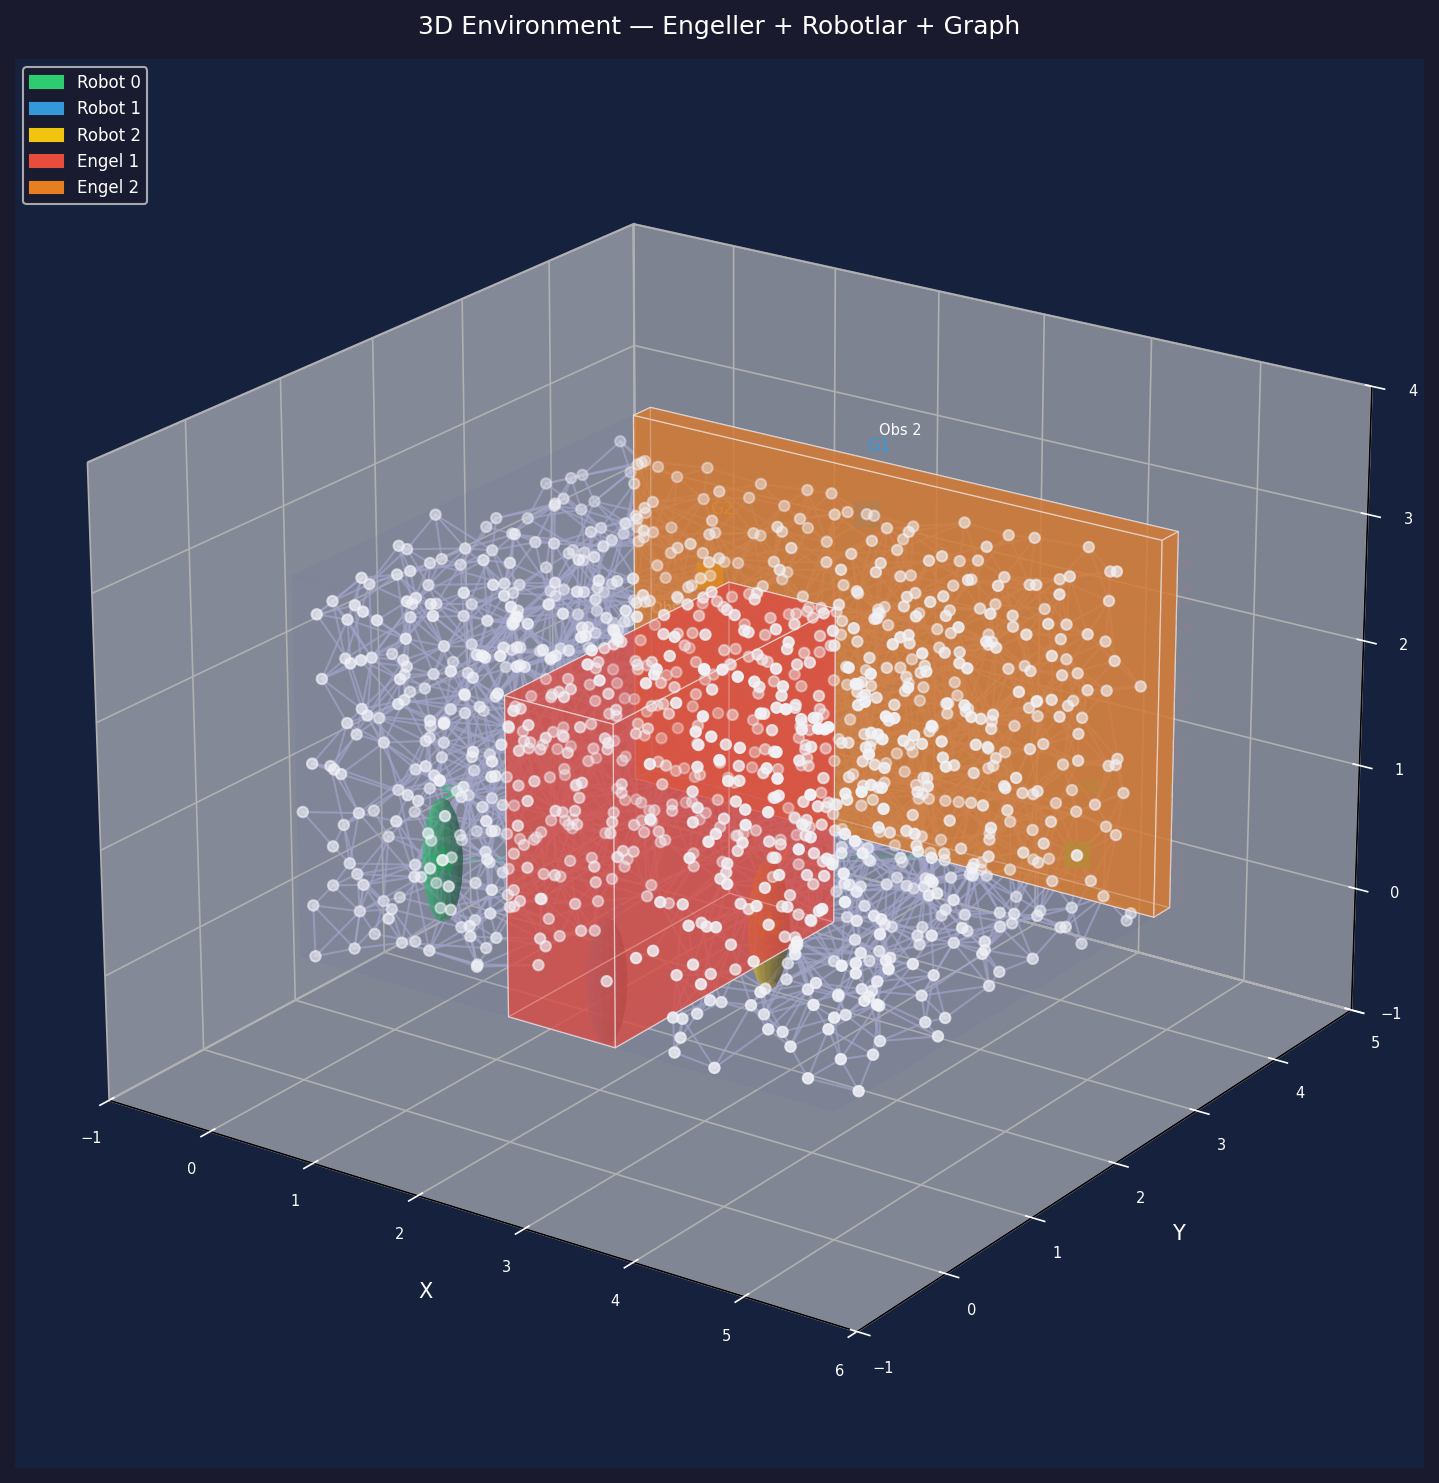
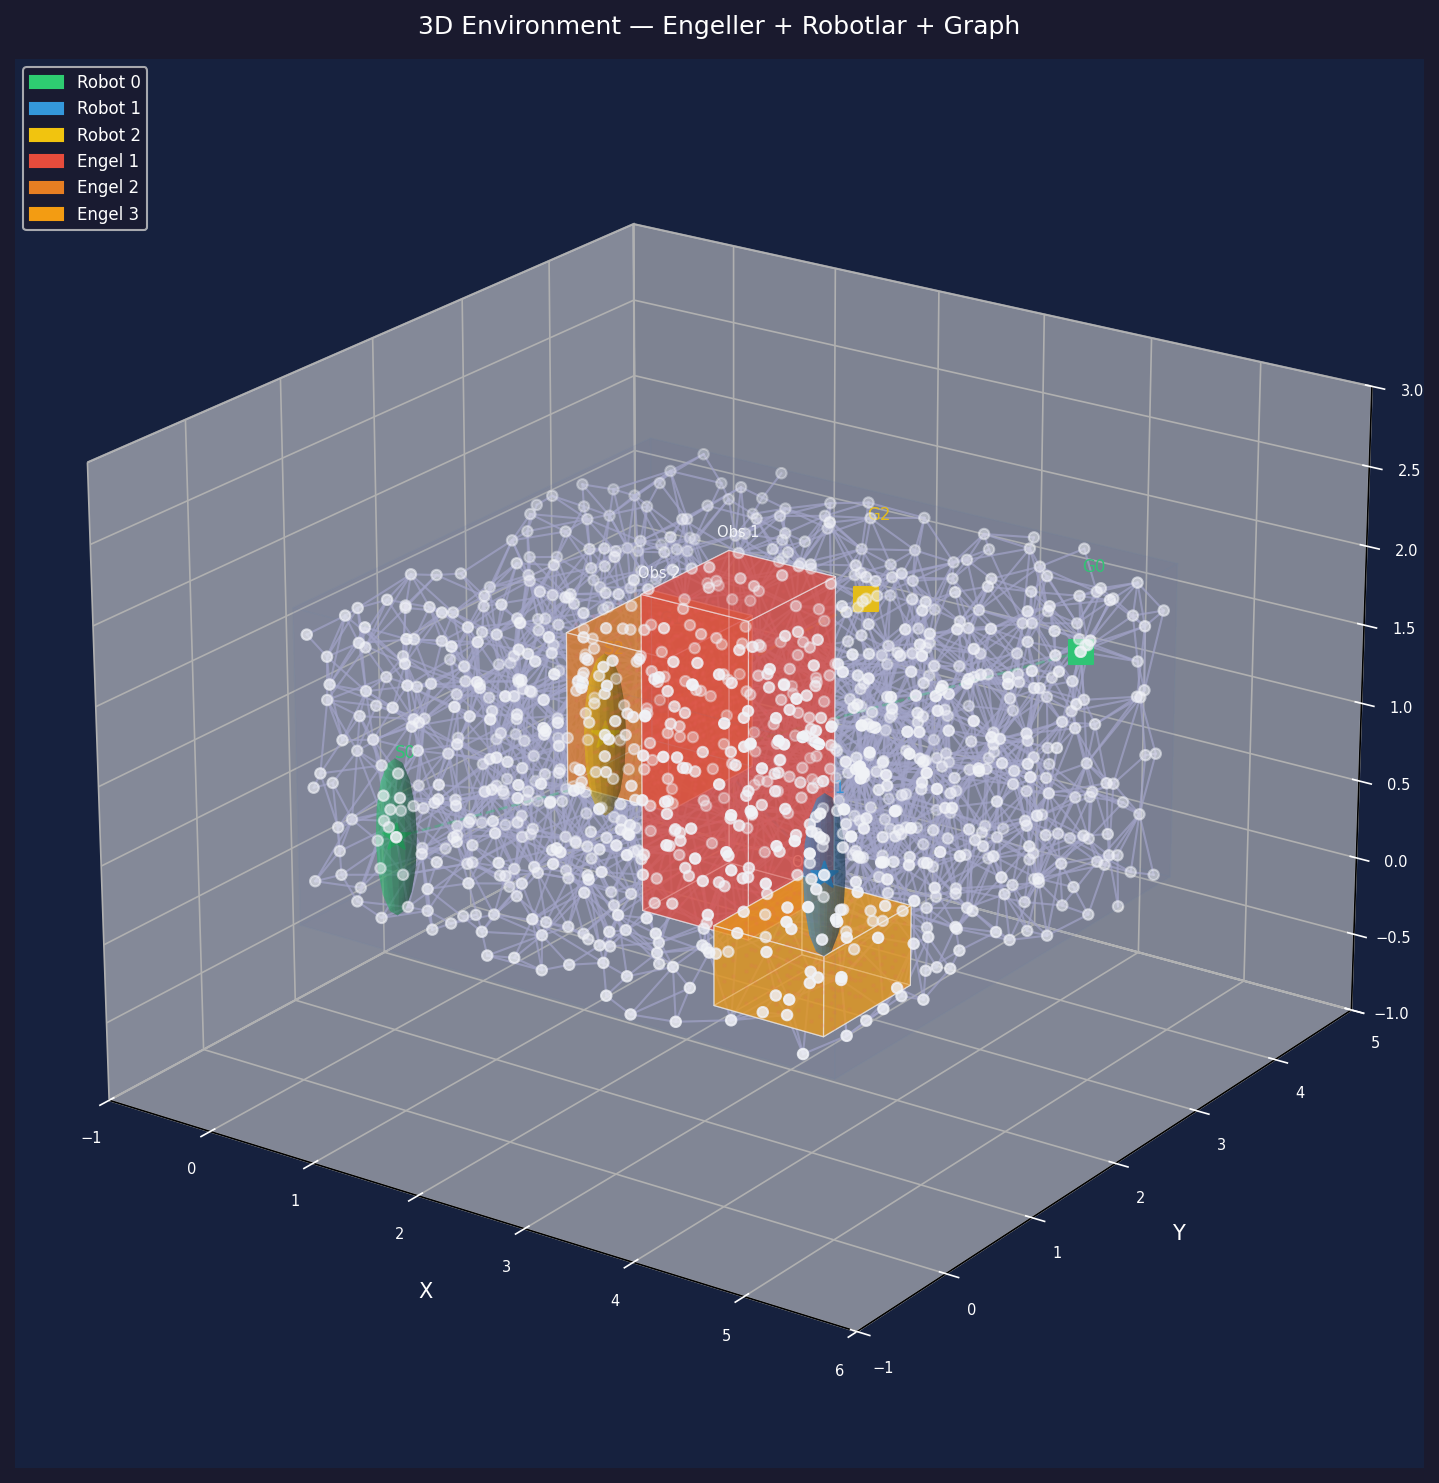
Edge Struct changed in Graph.h

Changed region(s): [[0.1835, 0.2792, 0.8256, 0.7444], [0.0, 0.1241, 0.0917, 0.1551]]

diff --git a/include/Graph.h b/include/Graph.h
@@ -16,48 +16,80 @@ struct Vertex{
 
 
 struct Edge{
+    int id;       // benzersiz kenar indeksi (undirected: her kenar bir kez)
     int from;
     int to;
     double cost;
 
-    Edge(int from, int to, double cost) : from(from), to(to), cost(cost) {}
+    Edge(int id, int from, int to, double cost)
+        : id(id), from(from), to(to), cost(cost) {}
 };
 
 
 class Graph{
 public:
     std::vector<Vertex> vertices;
+
+    // edges: her undirected kenar SADECE BİR KEZ tutulur (from < to garantili)
     std::vector<Edge> edges;
+
+    // adjacency: vertex id → komşu vertex id'leri
     std::unordered_map<int, std::vector<int>> adjacency;
+
+    // edge_index: (from, to) çifti → edges vektöründeki indeks
+    // Her iki yön de aynı edge id'ye işaret eder: (u,v) ve (v,u) → aynı Edge
+    std::unordered_map<int, std::unordered_map<int, int>> edge_index;
 
     // ── Vertex ekle, id döndür ────────────────────────────────────────
     int addVertex(const Eigen::Vector3d& pos) {
         int id = static_cast<int>(vertices.size());
         vertices.emplace_back(id, pos);
         adjacency[id] = {};
+        edge_index[id] = {};
         return id;
     }
 
-    // ── Kenar ekle (undirected), kenar indexini döndür ────────────────
-    void addEdge(int from, int to) {
+    // ── Kenar ekle (undirected) — edge id döndürür, zaten varsa mevcut id döner
+    int addEdge(int from, int to) {
         if (from < 0 || from >= static_cast<int>(vertices.size()) ||
             to   < 0 || to   >= static_cast<int>(vertices.size())){
             throw std::out_of_range("addEdge: geçersiz vertex id");
         }
 
-        auto& adj = adjacency[from];
-        if (std::find(adj.begin(), adj.end(), to) != adj.end()) 
-            return;
+        // Zaten varsa mevcut edge id'yi döndür
+        if (edge_index.count(from) && edge_index[from].count(to))
+            return edge_index[from][to];
 
+        // Canonical yön: her zaman from < to olarak sakla
+        int u = std::min(from, to);
+        int v = std::max(from, to);
 
-        double cost = (vertices[from].pos - vertices[to].pos).norm();
+        int eid = static_cast<int>(edges.size());
+        double cost = (vertices[u].pos - vertices[v].pos).norm();
+        edges.emplace_back(eid, u, v, cost);
 
-        // Çift yönlü kenar (undirected)
-        edges.emplace_back(from, to,   cost);
-        edges.emplace_back(to,   from, cost);
+        // Her iki yön de aynı edge id'ye işaret etsin
+        edge_index[u][v] = eid;
+        edge_index[v][u] = eid;
 
-        adjacency[from].push_back(to);
-        adjacency[to].push_back(from);
+        adjacency[u].push_back(v);
+        adjacency[v].push_back(u);
+
+        return eid;
+    }
+
+    // ── Edge id'den Edge nesnesine eriş ──────────────────────────────
+    const Edge& getEdge(int edge_id) const {
+        return edges.at(edge_id);
+    }
+
+    // ── (from, to) çiftinden edge id'ye eriş (-1: yok) ───────────────
+    int getEdgeId(int from, int to) const {
+        auto it = edge_index.find(from);
+        if (it == edge_index.end()) return -1;
+        auto jt = it->second.find(to);
+        if (jt == it->second.end()) return -1;
+        return jt->second;
     }
 
     // ── Komşuları döndür ─────────────────────────────────────────────
@@ -68,15 +100,14 @@ public:
     // ── İstatistik ───────────────────────────────────────────────────
     void printStats() const {
         std::cout << "Graph: "
-                  << vertices.size()     << " vertices, "
-                  << edges.size() / 2    << " edges\n";
+                  << vertices.size() << " vertices, "
+                  << edges.size()    << " edges\n";
     }
 
     // ── CSV'ye kaydet ─────────────────────────────────────────────────
     void saveToCSV(const std::string& vertex_file,
-                   const std::string& edge_file) const{
-                    
-        // Vertex'ler
+                   const std::string& edge_file) const {
+
         std::ofstream vf(vertex_file);
         if (!vf) throw std::runtime_error("Vertex dosyası açılamadı: " + vertex_file);
         vf << "id,x,y,z\n";
@@ -84,23 +115,21 @@ public:
             vf << v.id << ","
                << v.pos.x() << "," << v.pos.y() << "," << v.pos.z() << "\n";
 
-        // Edge'ler (her çifti bir kere yaz: from < to)
+        // edges zaten tekil (from < to), doğrudan yaz
         std::ofstream ef(edge_file);
         if (!ef) throw std::runtime_error("Edge dosyası açılamadı: " + edge_file);
-        ef << "from,to,cost,from_x,from_y,from_z,to_x,to_y,to_z\n";
+        ef << "edge_id,from,to,cost,from_x,from_y,from_z,to_x,to_y,to_z\n";
         for (const auto& e : edges) {
-            if (e.from < e.to) {
-                const auto& a = vertices[e.from].pos;
-                const auto& b = vertices[e.to  ].pos;
-                ef << e.from << "," << e.to << "," << e.cost << ","
-                   << a.x() << "," << a.y() << "," << a.z() << ","
-                   << b.x() << "," << b.y() << "," << b.z() << "\n";
-            }
+            const auto& a = vertices[e.from].pos;
+            const auto& b = vertices[e.to  ].pos;
+            ef << e.id   << ","
+               << e.from << "," << e.to << "," << e.cost << ","
+               << a.x()  << "," << a.y() << "," << a.z() << ","
+               << b.x()  << "," << b.y() << "," << b.z() << "\n";
         }
         std::cout << "Kaydedildi: " << vertex_file << ", " << edge_file << "\n";
     }
 
-    const std::vector<Vertex>& getVertices() const{
-        return vertices;
-    }
+    const std::vector<Vertex>& getVertices() const { return vertices; }
+    const std::vector<Edge>&   getEdges()    const { return edges;    }
 };

diff --git a/include/SPARSRoadMapGenerator.h b/include/SPARSRoadMapGenerator.h
@@ -23,10 +23,18 @@ public:
     const FCLCollisionChecker& collisionChecker;
     double sparseDeltaFraction;
 
+    // sparseDeltaFraction : SPARS δ parametresi (space diagonal'ına oranı).
+    //                       OMPL bunu sparseDelta = fraction * space_diagonal olarak kullanır.
+    //                       connectRadius: start/goal bağlama için kullanılan yarıçap.
+    //                       Negatif bırakılırsa → sparseDelta değerine otomatik eşitlenir.
     SPARSRoadMapGenerator(const Environment& env,
                           const FCLCollisionChecker& collisionChecker,
-                          double sparseDeltaFraction = 0.05)
-        : env(env), collisionChecker(collisionChecker), sparseDeltaFraction(sparseDeltaFraction) {}
+                          double sparseDeltaFraction = 0.05,
+                          double connectRadius = -1.0)
+        : env(env)
+        , collisionChecker(collisionChecker)
+        , sparseDeltaFraction(sparseDeltaFraction)
+        , connectRadius_(connectRadius) {}
 
     Graph createRoadMap() {
         Graph roadMap;
@@ -45,7 +53,11 @@ public:
         });
         si->setup();
 
-        // dummy start and goal
+        // SPARS'a start/goal vermek sadece arama yolunu etkiler;
+        // roadmap oluşumu bundan bağımsızdır. Ancak birden fazla start/goal
+        // verilmesi, coverage'ı artırır.
+        // Agent yoksa ortamın zıt iki köşesini kullan — tek nokta verilmesi
+        // SPARS'ın çok seyrek roadmap üretmesine yol açabilir.
         ob::ScopedState<ob::RealVectorStateSpace> startState(space);
         ob::ScopedState<ob::RealVectorStateSpace> goalState(space);
 
@@ -57,10 +69,13 @@ public:
             goalState[1]  = env.agents[0].goal.y();
             goalState[2]  = env.agents[0].goal.z();
         } else {
-            Eigen::Vector3d c = (env.world_min + env.world_max) * 0.5;
-            startState[0] = goalState[0] = c.x();
-            startState[1] = goalState[1] = c.y();
-            startState[2] = goalState[2] = c.z();
+            // Zıt köşeler → SPARS tüm alanı tarama şansı bulur
+            startState[0] = env.world_min.x();
+            startState[1] = env.world_min.y();
+            startState[2] = env.world_min.z();
+            goalState[0]  = env.world_max.x();
+            goalState[1]  = env.world_max.y();
+            goalState[2]  = env.world_max.z();
         }
 
         auto pdef = std::make_shared<ob::ProblemDefinition>(si);
@@ -103,11 +118,20 @@ public:
     }
 
 private:
-    double computeSearchRadius() {
+    double connectRadius_;   // start/goal bağlama yarıçapı
+
+    // SPARS'ın kendi δ'sıyla tutarlı bir search radius hesapla.
+    // OMPL içinde: sparseDelta = sparseDeltaFraction * space_diagonal
+    // connectRadius negatifse aynı formülü kullan → tutarlılık sağlanır.
+    double computeSearchRadius() const {
         double dx = env.world_max.x() - env.world_min.x();
         double dy = env.world_max.y() - env.world_min.y();
         double dz = env.world_max.z() - env.world_min.z();
-        return std::sqrt(dx*dx + dy*dy + dz*dz) * sparseDeltaFraction;
+        double sparseDelta = std::sqrt(dx*dx + dy*dy + dz*dz) * sparseDeltaFraction;
+
+        if (connectRadius_ > 0.0)
+            return connectRadius_;   // kullanıcı tanımlı
+        return sparseDelta;          // SPARS δ ile aynı → dispersion'a uyumlu
     }
 
     void addVertices(Graph& graph,

diff --git a/include/GridRoadMapGenerator.h b/include/GridRoadMapGenerator.h
@@ -143,11 +143,14 @@ private:
 
         
         int id = graph.addVertex(point);
+        indexMap[key] = id;
 
         std::vector<std::pair<double, int>> candidates;
 
         double search_radius = grid_step * 1.5;
         for (const auto& [k, vid] : indexMap) {
+            if (vid == id) continue;
+
             double dist = (toPos(k) - point).norm();
             if(dist <= search_radius && collisionChecker.isEdgeFree(point, toPos(k)))
                 candidates.push_back({dist, vid});

diff --git a/include/RobotModel.h b/include/RobotModel.h
@@ -15,7 +15,7 @@ struct RobotModel {
     // ── Varsayılan: Crazyflie nano-quadrotor benzeri ──────────────────
     RobotModel()
         : radius(0.15)
-        , rx(0.15), ry(0.15), rz(0.5) {}
+        , rx(0.15), ry(0.15), rz(0.3) {}
 
     RobotModel(double radius, double rx, double ry, double rz)
         : radius(radius), rx(rx), ry(ry), rz(rz) {}